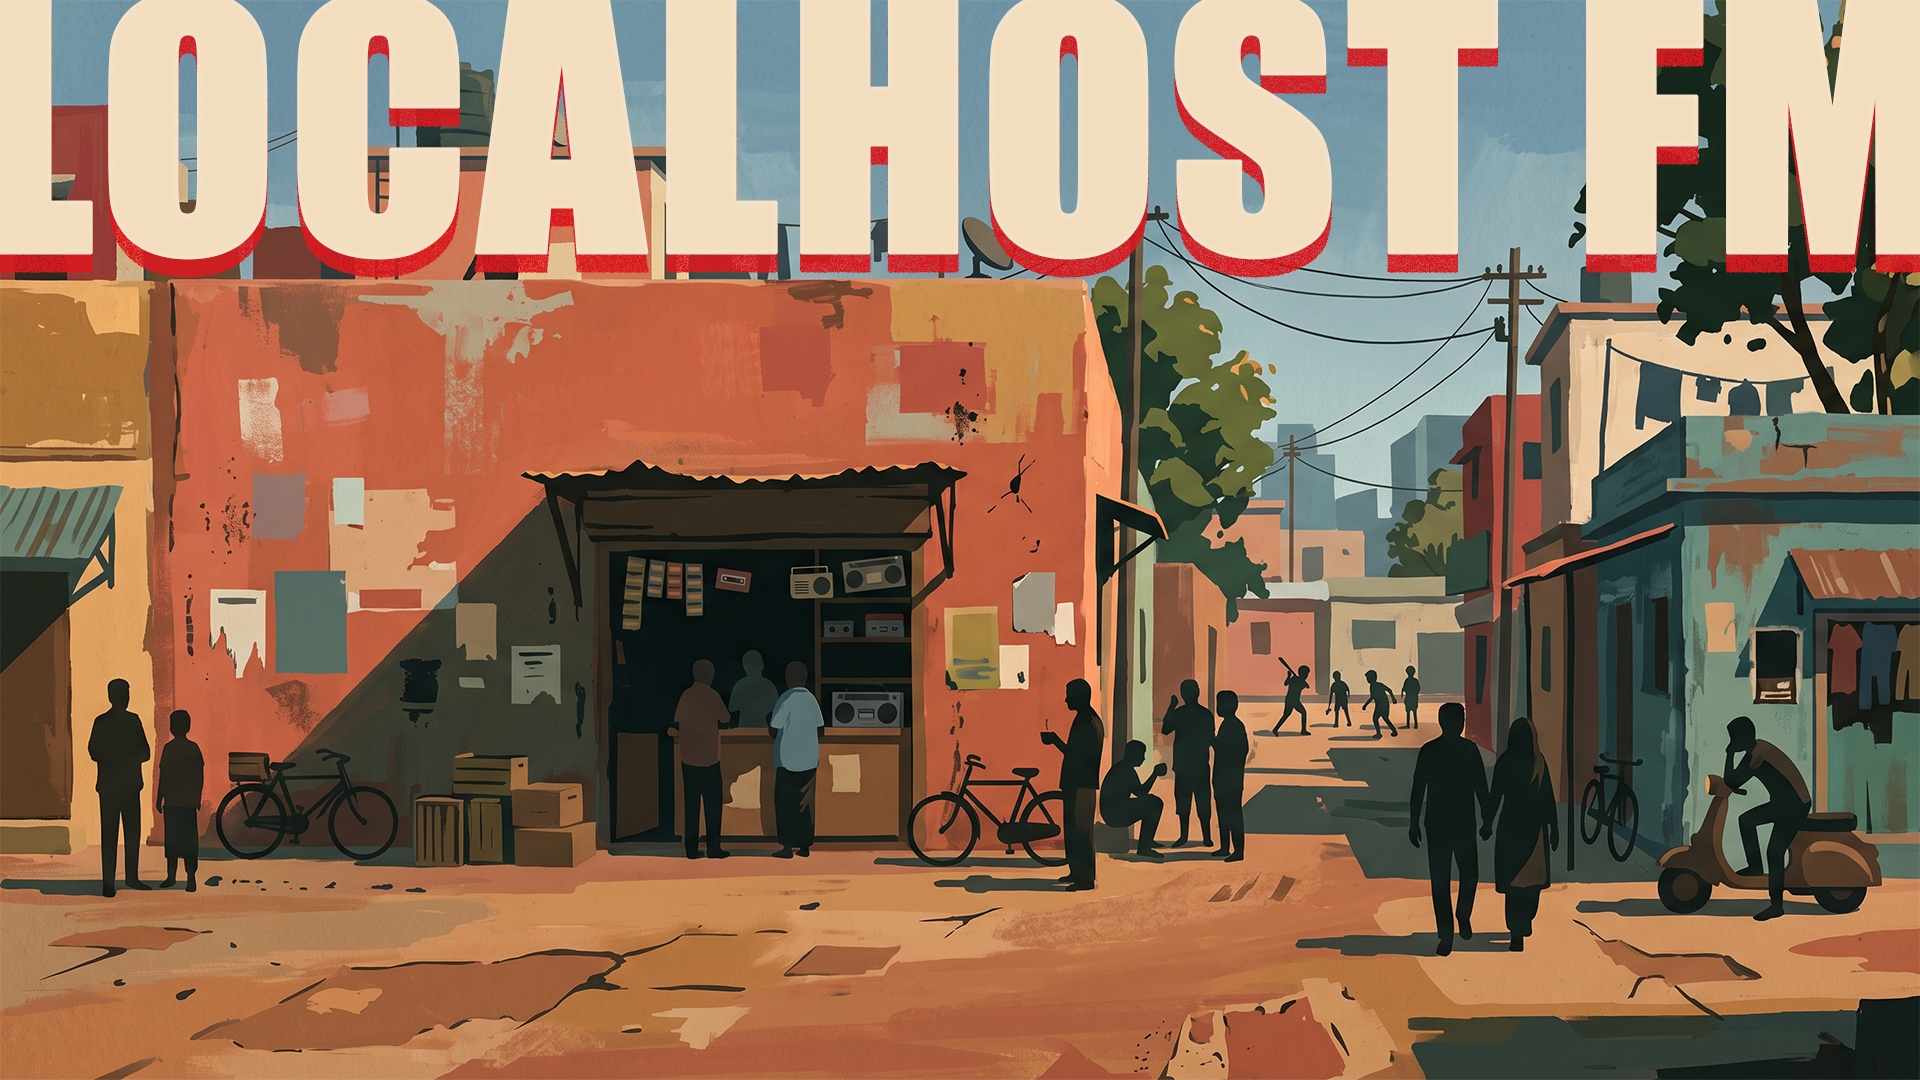
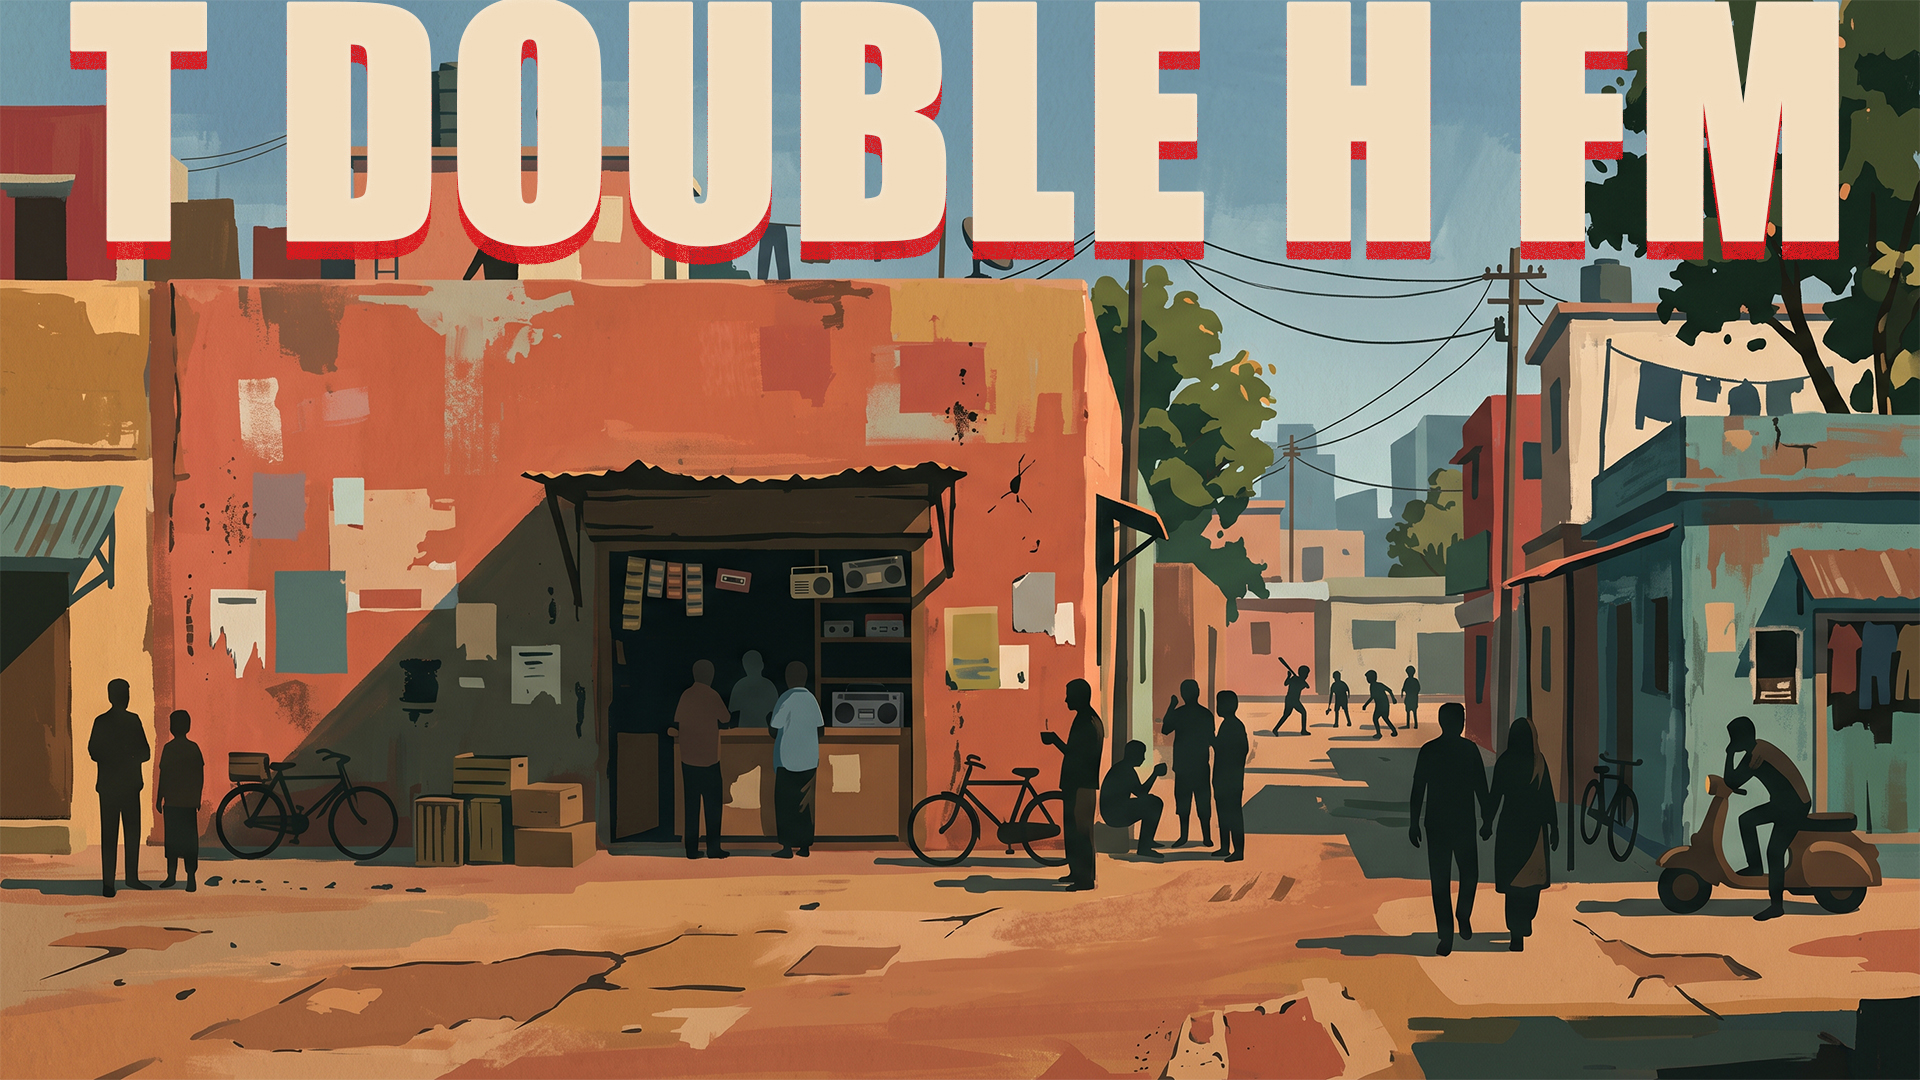
Rebrand to tdoubleh fm, add SEO, fix NowPlaying UI, add check-live API

Changed region(s): [[0.0, 0.0, 1.0, 0.275]]

diff --git a/src/components/NowPlaying.tsx b/src/components/NowPlaying.tsx
@@ -4,8 +4,7 @@ import React, { useEffect, useState } from 'react';
 import { useAudio } from '@/context/AudioContext';
 
 export default function NowPlaying() {
-  const { setCurrentTrack, isPlaying } = useAudio();
-  const [loading, setLoading] = useState(true);
+  const { currentTrack, isPlaying, audioMode } = useAudio();
   const [currentTime, setCurrentTime] = useState<string>('');
 
   useEffect(() => {
@@ -17,60 +16,56 @@ export default function NowPlaying() {
     return () => clearInterval(timeInterval);
   }, []);
 
-  useEffect(() => {
-    // Poll the secure API route for track updates every 30 seconds
-    const fetchNowPlaying = async () => {
-      try {
-        const res = await fetch('/api/now-playing');
-        if (res.ok) {
-          const trackData = await res.json();
-          setCurrentTrack(trackData);
-        }
-      } catch (error) {
-        console.error("Failed to fetch now playing data", error);
-      } finally {
-        setLoading(false);
-      }
-    };
-
-    fetchNowPlaying();
-    const interval = setInterval(fetchNowPlaying, 30000);
-    
-    return () => clearInterval(interval);
-  }, [setCurrentTrack]);
+  const isLive = currentTrack.title === 'ON AIR' || audioMode === 'live';
 
   return (
-    <div className={`glass border-t border-l border-r border-white/10 rounded-t-3xl px-8 pt-5 pb-3 max-w-lg w-full mx-auto text-center relative overflow-hidden transition-all duration-500 pointer-events-auto shadow-2xl mb-[-1px] ${isPlaying ? 'animate-rhythm' : ''}`}>
+    <div className={`glass border-t border-l border-r border-white/10 rounded-t-3xl px-8 pt-5 pb-3 max-w-lg w-full mx-auto text-center relative overflow-hidden transition-all duration-500 pointer-events-auto shadow-2xl mb-[-1px] ${isPlaying && !isLive ? 'animate-rhythm' : ''}`}>
       {/* Animated gradient overlay */}
-      <div className="absolute inset-0 bg-gradient-to-tr from-purple-500/10 to-blue-500/10 animate-pulse pointer-events-none"></div>
+      <div className={`absolute inset-0 bg-gradient-to-tr ${isLive ? 'from-red-500/20 to-orange-500/10' : 'from-purple-500/10 to-blue-500/10'} animate-pulse pointer-events-none`}></div>
+
+      {isLive && isPlaying && (
+        <div className="absolute inset-0 bg-red-500/5 animate-[pulse_2s_ease-in-out_infinite] pointer-events-none rounded-t-3xl border-t border-red-500/30"></div>
+      )}
 
       <div className="relative z-10">
-        {/* Top row: NOW PLAYING label + time */}
+        {/* Top row: NOW PLAYING / ON AIR label + time */}
         <div className="flex items-center justify-between mb-3">
           <div className="flex items-center gap-2">
-            {isPlaying && (
+            {isPlaying && !isLive && (
               <div className="flex items-end gap-[3px] h-3.5">
                 <div className="w-[3px] bg-white/80 rounded-full animate-[bounce_1s_infinite] h-full"></div>
                 <div className="w-[3px] bg-white/80 rounded-full animate-[bounce_1.2s_infinite] h-3/4"></div>
                 <div className="w-[3px] bg-white/80 rounded-full animate-[bounce_0.8s_infinite] h-1/2"></div>
               </div>
             )}
-            <span className="text-xs text-white/50 uppercase tracking-widest font-semibold">Now Playing</span>
+            {isLive ? (
+              <div className="flex items-center gap-2 px-2 py-0.5 bg-red-500/20 rounded-md border border-red-500/30">
+                <div className="w-2 h-2 bg-red-500 rounded-full animate-ping"></div>
+                <div className="w-2 h-2 bg-red-500 rounded-full absolute"></div>
+                <span className="text-xs text-red-400 uppercase tracking-widest font-bold">Live Broadcast</span>
+              </div>
+            ) : (
+              <span className="text-xs text-white/50 uppercase tracking-widest font-semibold">Now Playing</span>
+            )}
           </div>
           {currentTime && (
-            <span className="text-xs text-white/60 font-medium tabular-nums">{currentTime}</span>
+            <span className={`text-xs font-medium tabular-nums ${isLive ? 'text-red-400/80' : 'text-white/60'}`}>{currentTime}</span>
           )}
         </div>
 
         {/* Track info */}
-        {loading ? (
+        {currentTrack.title === 'Loading...' ? (
           <div className="h-8 flex items-center justify-center">
             <div className="w-5 h-5 border-2 border-white/30 border-t-white rounded-full animate-spin"></div>
           </div>
         ) : (
           <>
-            <p className="text-base md:text-lg font-semibold text-white leading-tight">Midnight Coding Sessions</p>
-            <p className="text-sm text-white/50 mt-0.5">Localhost FM Chill</p>
+            <p className={`text-base md:text-lg font-bold leading-tight ${isLive ? 'text-red-100 drop-shadow-[0_0_8px_rgba(239,68,68,0.8)]' : 'text-white'}`}>
+              {currentTrack.title}
+            </p>
+            <p className={`text-sm mt-0.5 font-medium tracking-wide ${isLive ? 'text-red-300/80' : 'text-white/50'}`}>
+              {currentTrack.artist}
+            </p>
           </>
         )}
       </div>

diff --git a/src/context/AudioContext.tsx b/src/context/AudioContext.tsx
@@ -37,7 +37,7 @@ const MORNING_TRACKS = [
   {
     src: '/audio/morning2.mp3',
     title: 'Morning Routine',
-    artist: 'Localhost FM',
+    artist: 'T Double H FM',
     cover: '/bg.jpg',
     durationSec: 8613, // 2h 23m 33s
   },
@@ -68,9 +68,32 @@ export function AudioProvider({ children }: { children: ReactNode }) {
     cover: '/bg.jpg',
   });
   const [streamUrl, setStreamUrl] = useState<string | null>(null);
+  const [isLiveStreamActive, setIsLiveStreamActive] = useState(false);
 
   const audioRef = useRef<HTMLAudioElement | null>(null);
   const timeoutRef = useRef<ReturnType<typeof setTimeout> | null>(null);
+
+  // ─── Generic Live Stream Detection ─────────────────────────────────────────
+  // Polls our own backend every 10 seconds to see if the stream URL is actually returning audio (200 OK)
+  useEffect(() => {
+    let interval: ReturnType<typeof setInterval>;
+
+    const checkLiveStatus = async () => {
+      try {
+        const res = await fetch('/api/check-live');
+        const data = await res.json();
+        setIsLiveStreamActive(data.isLive === true);
+      } catch {
+        setIsLiveStreamActive(false);
+      }
+    };
+
+    // Check immediately, then every 10 seconds
+    checkLiveStatus();
+    interval = setInterval(checkLiveStatus, 10000);
+
+    return () => clearInterval(interval);
+  }, []);
 
   // Fetch secure stream URL
   useEffect(() => {
@@ -107,7 +130,18 @@ export function AudioProvider({ children }: { children: ReactNode }) {
     const t2Duration = MORNING_TRACKS[1].durationSec;
     const totalScheduledDuration = t1Duration + t2Duration;
 
-    if (elapsedSeconds >= 0 && elapsedSeconds < t1Duration) {
+    if (isLiveStreamActive) {
+      // 🚀 HARD OVERRIDE: If the real stream is active, override the morning routine!
+      targetSrc = streamUrl;
+      targetOffset = 0;
+      targetMode = 'live';
+      targetTrack = {
+        title: 'ON AIR',
+        artist: 'T Double H FM',
+        cover: '/bg.jpg',
+      };
+      timeUntilNextEventMs = 10000; // re-evaluate when status might change
+    } else if (elapsedSeconds >= 0 && elapsedSeconds < t1Duration) {
       // We are within Track 1
       targetSrc = MORNING_TRACKS[0].src;
       targetOffset = elapsedSeconds;
@@ -173,15 +207,15 @@ export function AudioProvider({ children }: { children: ReactNode }) {
       evaluateAndPlay();
     }, timeUntilNextEventMs);
 
-  }, [streamUrl, isPlaying]);
+  }, [streamUrl, isPlaying, isLiveStreamActive]);
 
-  // Evaluate state when streamUrl loads or just periodically to catch boundaries if paused
+  // Evaluate state when streamUrl loads, isLiveStreamActive changes, or periodically to catch boundaries
   useEffect(() => {
     if (streamUrl) evaluateAndPlay();
     return () => {
       if (timeoutRef.current) clearTimeout(timeoutRef.current);
     };
-  }, [streamUrl, evaluateAndPlay]);
+  }, [streamUrl, isLiveStreamActive, evaluateAndPlay]);
 
   const togglePlay = () => {
     if (!audioRef.current) return;

diff --git a/src/app/layout.tsx b/src/app/layout.tsx
@@ -13,8 +13,32 @@ const geistMono = Geist_Mono({
 });
 
 export const metadata: Metadata = {
-  title: "Localhost FM | Lo-fi Beats",
-  description: "A modern Next.js-based web radio platform.",
+  title: "tdoubleh fm",
+  description: "Welcome to T Double H FM, the ultimate live radio station curated by Tanjil Hasan Himel. Enjoy 24/7 lofi beats, morning routines, and live broadcasts.",
+  authors: [{ name: "Tanjil Hasan Himel" }],
+  keywords: ["radio", "T Double H FM", "lofi", "live stream", "Tanjil Hasan Himel", "music", "broadcast"],
+  openGraph: {
+    title: "T Double H FM | Live 24/7 Radio",
+    description: "Welcome to T Double H FM, the ultimate live radio station curated by Tanjil Hasan Himel. Enjoy 24/7 lofi beats, morning routines, and live broadcasts.",
+    url: "https://tdoubleh.fm",
+    siteName: "T Double H FM",
+    images: [
+      {
+        url: "/bg.jpg",
+        width: 1200,
+        height: 630,
+        alt: "T Double H FM Cover",
+      },
+    ],
+    locale: "en_US",
+    type: "website",
+  },
+  twitter: {
+    card: "summary_large_image",
+    title: "T Double H FM | Live 24/7 Radio",
+    description: "Welcome to T Double H FM, curated by Tanjil Hasan Himel.",
+    images: ["/bg.jpg"],
+  },
 };
 
 import { AudioProvider } from "@/context/AudioContext";

diff --git a/src/app/api/check-live/route.ts b/src/app/api/check-live/route.ts
@@ -1,0 +1,37 @@
+import { NextResponse } from 'next/server';
+
+export async function GET() {
+  const streamUrl = process.env.STREAM_URL;
+
+  if (!streamUrl) {
+    return NextResponse.json({ isLive: false });
+  }
+
+  try {
+    const controller = new AbortController();
+    const timeoutId = setTimeout(() => controller.abort(), 3000); // 3 seconds timeout
+
+    // Request the stream url
+    const res = await fetch(streamUrl, {
+      signal: controller.signal,
+      headers: {
+        'Range': 'bytes=0-0', // Request minimum data
+      },
+    });
+
+    clearTimeout(timeoutId);
+    
+    // We only need the headers to know if it's active (200 OK)
+    // Abort immediately so we don't download the infinite audio stream!
+    controller.abort();
+
+    if (res.ok) {
+      return NextResponse.json({ isLive: true });
+    } else {
+      return NextResponse.json({ isLive: false });
+    }
+  } catch (error) {
+    // If connection refused, timeout, or aborted -> not live
+    return NextResponse.json({ isLive: false });
+  }
+}

diff --git a/next.config.ts b/next.config.ts
@@ -30,9 +30,9 @@ const securityHeaders = [
       // Allow fonts from Google and self
       "font-src 'self' https://fonts.gstatic.com",
       // CRITICAL: Only allow audio streams from our own API proxy and trusted radio CDNs
-      "media-src 'self' blob: https://stream.zeno.fm",
+      "media-src 'self' blob: https://stream.zeno.fm http://localhost:8000",
       // Allow connections to our own API routes only
-      "connect-src 'self' https://stream.zeno.fm",
+      "connect-src 'self' https://stream.zeno.fm http://localhost:8000",
       // Never allow framing from other sites
       "frame-ancestors 'none'",
       // Prevent form submissions to external sites

diff --git a/src/app/api/stream-url/route.ts b/src/app/api/stream-url/route.ts
@@ -17,11 +17,7 @@ export async function GET() {
 
   // Validate it's a legitimate URL before returning (prevents env poisoning)
   try {
-    const parsed = new URL(streamUrl);
-    // Only allow https streams
-    if (parsed.protocol !== 'https:') {
-      return NextResponse.json({ error: 'Invalid stream protocol' }, { status: 400 });
-    }
+    new URL(streamUrl);
   } catch {
     return NextResponse.json({ error: 'Invalid stream URL configured' }, { status: 500 });
   }

diff --git a/src/app/api/now-playing/route.ts b/src/app/api/now-playing/route.ts
@@ -9,7 +9,7 @@ export async function GET() {
   // Dummy response
   const currentTrack = {
     title: 'Midnight Coding Sessions',
-    artist: 'Localhost FM Chill',
+    artist: 'T Double H FM Chill',
     cover: '/bg.jpg', // Using the background image as the dummy cover art
   };
 
